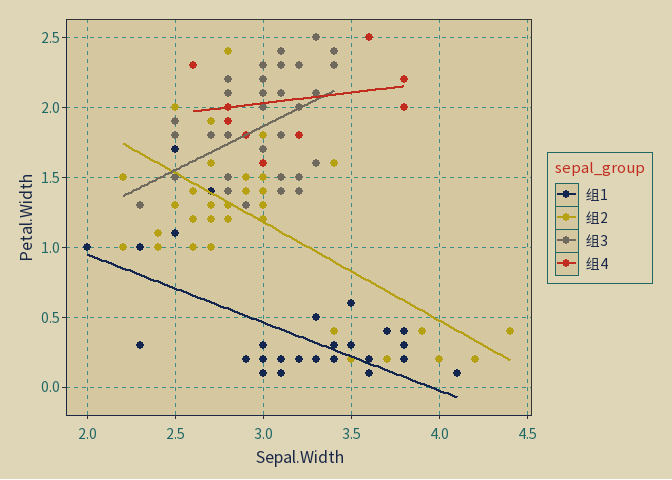
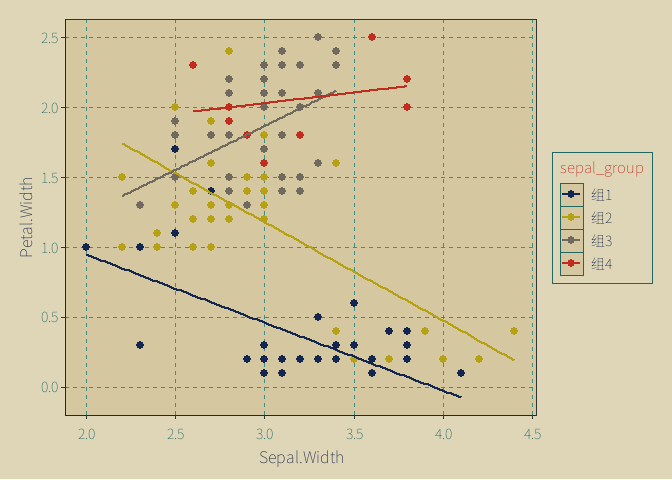
新字体设置下的图形输出 readme 效果测试

diff --git a/README.md b/README.md
@@ -440,9 +440,7 @@ ctc_palette(type = "built_in",palette_name = 44, n = 12,direction = 1,show_color
 当然更方便的是使用`create_color_pick`
 这个辅助函数，便捷的生成`抓色`list。
 
-这个函数实现了抓取颜色的高灵活性.
-
-这看起来会有点复杂，主要是我们支持了颜色分组与子组的灵活配置与选择，尤其是子组的选择方面。
+这个函数实现了抓取颜色的高灵活性.这看起来会有点复杂，主要是我们支持了颜色分组与子组的灵活配置与选择，尤其是子组的选择方面。
 对于颜色组别(1-96)，只支持输入数值向量，比如group =
 c(4,8,12,16,20),定义了颜色从这5个组别里选择；
 subgroup可以非常灵活，比如：subgroup = 3，代表取上述5组颜色的第三个；sub
